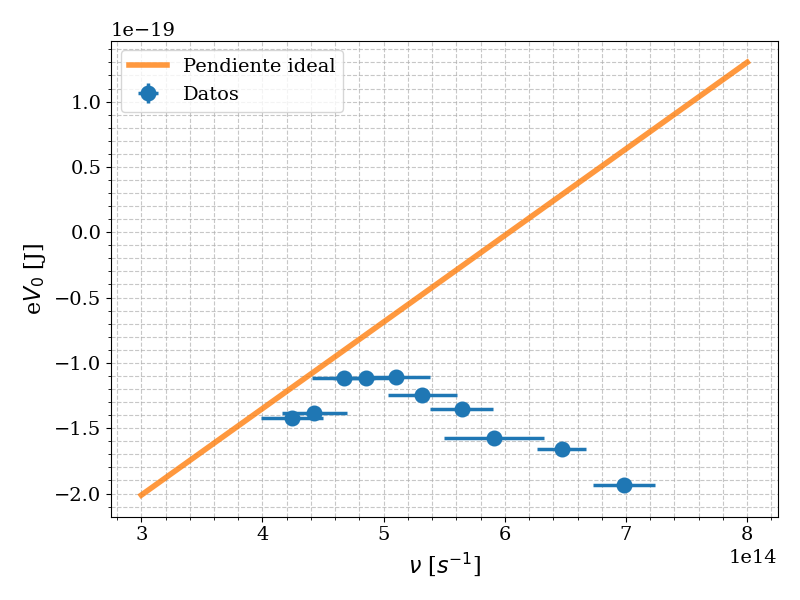
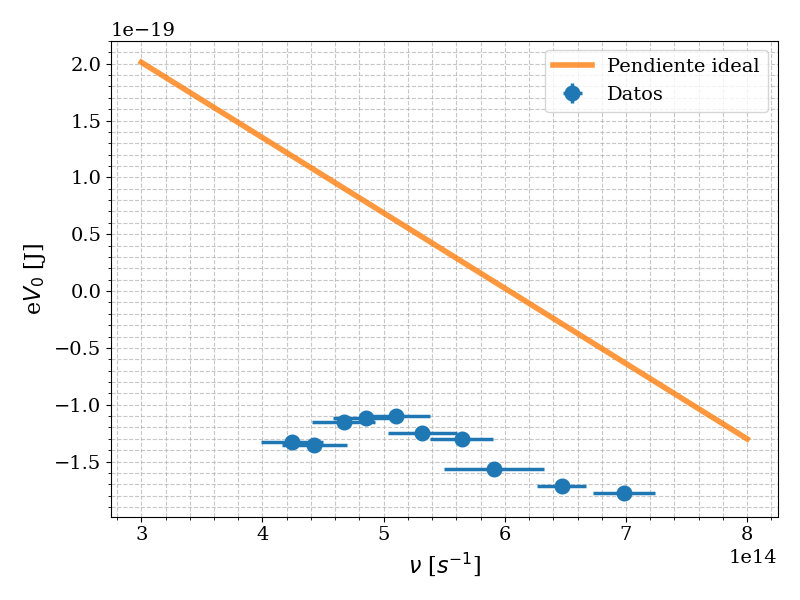
Add Planck fitting scripts; refine voltage analysis
Add two Planck-fit scripts (ajuste_obtenr_plank_pedro.py, ajuste_planck_intento_2.py) and update plotting asset (AjustePlanckPrimerIntento.png). Improve analisis_voltaje_retardador_y_ajuste.py: import curve_fit and Polynomial, add local-point extraction and polynomial fitting to find zero-crossings, plot local points with error bars and fitted curve, and mark V0 from the root. Also adjust which data file is included in the loop. These changes enable local interpolation around minima and produce clearer Planck-fit plots.

diff --git a/clase3/codigolabo5Clase3/analisis_voltaje_retardador_y_ajuste.py b/clase3/codigolabo5Clase3/analisis_voltaje_retardador_y_ajuste.py
@@ -1,6 +1,8 @@
 import matplotlib.pyplot as plt
 import numpy as np
 import pandas as pd
+from scipy.optimize import curve_fit
+from numpy.polynomial import Polynomial
 
 plt.style.use('./estiloGraficos.mplstyle')
 
@@ -26,9 +28,42 @@ datos = [ ("barrido_420nm_5V.txt","420 nm"),# "CurvaLambda420nm.png"),
           ("barrido_600nm_5V.txt","600 nm"),# "CurvaLambda600nm.png"),
           ("barrido_630nm_5V.txt","630 nm"),# "CurvaLambda630nm.png"),
           ("barrido_660nm_5V_2.txt","660 nm"),# "CurvaLambda660nm.png"),
-          ("barrido_690nm_5V_2.txt","690 nm"),# "CurvaLambda690nm.png"),
+          #("barrido_690nm_5V_2.txt","690 nm"),# "CurvaLambda690nm.png"), al comente porque da muy feo, revisar,
           ("barrido_720nm_5V_2.txt","720 nm")]# "CurvaLambda720nm.png"),  ]
+#%%funcion par ainterpolar cero
+def modelo_exponencial(x, a, b, c):
+    return a * np.exp(b * x) + c
+
+def ajustar_y_cero(x_data, y_data):
+    # 1. Ajuste de la curva
+    ajuste = Polynomial.fit(x_data, y_data, deg=3)
+    raices_todas = ajuste.roots()
+    raices_reales = raices_todas[np.isreal(raices_todas)].real
+    
+    
+    return raices_reales, ajuste
+
+def devolver_puntos_alrededor(v,indice_minimo,n_puntos_alrededor =4):
+    puntos = []
+    for i in range(2*n_puntos_alrededor+1):
+        puntos.append(v[indice_minimo-4+i])
+    
+    
+    puntos = np.array(puntos)
+    
+    return puntos
+
+def raiz_en_intervalo(raices, x_min, x_max):
+    raiz_encontrada= False
+    for raiz in raices:
+        if ((raiz>x_min) and (raiz < x_max)):
+            print(f"la raiz vale {raiz}")
+            raiz_encontrada= raiz
+    return raiz_encontrada
+
+    
 #%%
+
 offset = 2.10 # pA
 error_offset = 0.01 # pA
 potenciales_corte = []
@@ -46,15 +81,27 @@ for (archivo, etiqueta) in datos:
     error_i = np.sqrt((error_sistematico_i**2) + (error_offset**2))
 
     indice_minimo = np.argmin(np.abs(i))
+    
+    
+    puntos_v = devolver_puntos_alrededor(v,indice_minimo)
+    puntos_i = devolver_puntos_alrededor(i, indice_minimo)
+    puntos_err_i =devolver_puntos_alrededor(error_i, indice_minimo)
+    puntos_err_v =devolver_puntos_alrededor(error_sistematico_v, indice_minimo)
+    
+    raices_reales, funcion_ajustada = ajustar_y_cero(puntos_v, puntos_i)
+    v_cero = raiz_en_intervalo(raices_reales, puntos_v[0], puntos_v[-1])
+
     v_min = v[indice_minimo]
     error_v_min = error_sistematico_v[indice_minimo]
     i_min = i[indice_minimo]
     potenciales_corte.append(v_min)
     errores_potenciales.append(error_v_min)
-    ax1.errorbar(v, i, xerr=error_sistematico_v, yerr=error_i,
+    ax1.errorbar(puntos_v, puntos_i, xerr=puntos_err_v, yerr=puntos_err_i,
                  fmt="o", label=r"$\lambda_{nom}$ = "f"{etiqueta}", alpha=0.8)
-    ax1.plot(v_min, i_min, marker='*', color='red', markersize=16, 
-             linestyle='None', label=r"Mínimo: $V_0$ = "f"({v_min:.2f} ± {error_v_min:.2f}) V")
+    x=np.linspace(puntos_v[0], puntos_v[-1], 50)
+    ax1.plot(x,funcion_ajustada(x))
+    ax1.plot(v_cero, 0, marker='*', color='red', markersize=16, 
+             linestyle='None', label=r"Mínimo: $V_0$ = "f"({v_cero:.2f} ± {error_v_min:.2f}) V")
     
     ax1.set_xlabel("Voltaje [V]")
     ax1.set_ylabel("Corriente [pA]")

diff --git a/clase3/codigolabo5Clase3/ajuste_planck_intento_2.py b/clase3/codigolabo5Clase3/ajuste_planck_intento_2.py
@@ -1,0 +1,54 @@
+import matplotlib.pyplot as plt
+import numpy as np
+from scipy.optimize import curve_fit
+
+plt.style.use('./estiloGraficos.mplstyle')
+
+potencial_corte = np.array([-1.108268151062859, -1.070928290256436, -0.97539635663359, -0.81059875912748, # V
+                            -0.7786889645073048, -0.6860455945535144, -0.694819855280932, -0.7189098880885034, 
+                            -0.8460413664757194, -0.8308339001990339])#, -0.83448276])
+error_potencial = np.array([0.01206897, 0.01034483, 0.00982759, 0.00844828, # V
+                            0.00775862, 0.00689655, 0.00696552, 0.00696552, 
+                            0.00862069, 0.00889655])#, 0.00834483])
+#l_onda = np.array([[[429.3511047, 439.2395325, 441.8809509, 448.93396, 463.5228882, # son todos, pero medimos la mitad
+#                     479.2796021, 507.1751404, 518.3876953, 531.2072754, 547.4564819, 
+#                     563.767334,  575.357605, 587.2061768, 604.8078003, 617.8804932, 
+#                     631.9105835, 642.0559082, 662.1773071, 677.0305786, 690.0621338, 
+#                     706.6306152]]])
+l_onda = np.array([429.3511047, 463.5228882, 507.1751404, 531.2072754, 563.767334, # nm
+                   587.2061768, 617.8804932, 642.0559082, 677.0305786, 706.6306152])
+
+#e_l_onda = np.array([15.7990417, 14.312378, 14.3421326, 18.3772277, # son todos, pero medimos la mitad
+#                       35.4029541, 23.7365722, 24.70932, 27.0414428, 30.2957153,
+#                       31.0848388, 31.638916, 34.7069092, 34.1239624, 34.6813354,
+#                       35.9335938, 39.7402343, 41.2442017, 39.7293702, 42.8649902,
+#                       43.9100342])
+e_l_onda = np.array([15.7990417, 14.3421326, 35.4029541, 24.70932, 30.2957153, 31.638916, # nm
+                     34.1239624, 35.9335938, 41.2442017, 42.8649902]) # uso como error al ancho de banda
+
+c_luz = 299792458 # m s-1
+c_luz = c_luz*1e9 # nm s-1
+carga_e = 1.602176634 *1e-19 # C
+nu = c_luz / l_onda # s-1
+e_nu = np.abs((c_luz/(l_onda**2)) * e_l_onda) # s-1
+datos_y = carga_e * potencial_corte # lo paso así mas fácil
+error_y = carga_e * error_potencial
+h_tabulada = 6.62607015*1e-34 # J s-1
+def lineal(x,a,b):
+    return -1*a*x - b
+puntos_x = np.linspace(3*1e14,8*1e14,5)
+puntos_y = lineal(puntos_x,h_tabulada,-4*1e-19)
+#%%
+# CHEQUEAR si los errores en x son despreciables y por ende podemos usar cuadrados mínimos
+fig, ax = plt.subplots(figsize=(8,6))
+ax.errorbar(nu,datos_y, yerr=error_y, xerr=e_nu,
+           fmt="o",label="Datos")
+ax.plot(puntos_x, puntos_y, lw=4, alpha=0.8,label="Pendiente ideal")
+ax.set_xlabel(r"$\nu$ [$s^{-1}$]")
+ax.set_ylabel(r"e$V_0$ [J]")
+ax.legend()
+fig.tight_layout()
+fig.savefig("AjustePlanckPrimerIntento.png")
+fig.show()
+# dio re mal xd
+

diff --git a/clase3/codigolabo5Clase3/ajuste_obtenr_plank_pedro.py b/clase3/codigolabo5Clase3/ajuste_obtenr_plank_pedro.py
@@ -1,0 +1,32 @@
+import matplotlib.pyplot as plt
+import numpy as np
+from scipy.optimize import curve_fit
+from numpy.polynomial import Polynomial
+
+plt.style.use('./estiloGraficos.mplstyle')
+
+potencial_corte = np.array([-1.108268151062859, -1.070928290256436, -0.97539635663359, -0.81059875912748, # V
+                            -0.7786889645073048, -0.6860455945535144, -0.694819855280932, -0.7189098880885034, 
+                            -0.8460413664757194, -0.8308339001990339])
+
+l_onda = np.array([429.3511047, 463.5228882, 507.1751404, 531.2072754, 563.767334, # nm
+                   587.2061768, 617.8804932, 642.0559082, 677.0305786, 706.6306152])
+
+c= 2.99e17
+frec =c / l_onda #en herts
+
+def ajute(x_datos, y_datos):
+    ajuste = Polynomial.fit(x_datos, y_datos, deg=1)
+    coef = ajuste.convert().coef
+    return ajuste, coef
+
+fig, ax =plt.subplots()
+ajuste, coef=ajute(frec, potencial_corte)
+ax.scatter(frec, potencial_corte, label="datos")
+x= np.linspace(frec[0], frec[-1], 50)
+e=1.600217e-19
+ax.plot(x, ajuste(x), label=f"h_medida: {-1 * coef[1] * e:.2e} [J*seg]\n h tabulada:{ 6.62e-34}[J*seg]")
+ax.legend()
+
+
+
